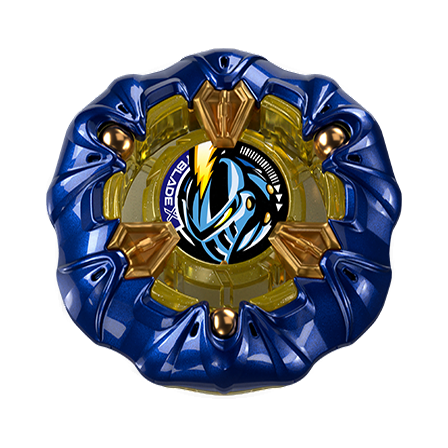
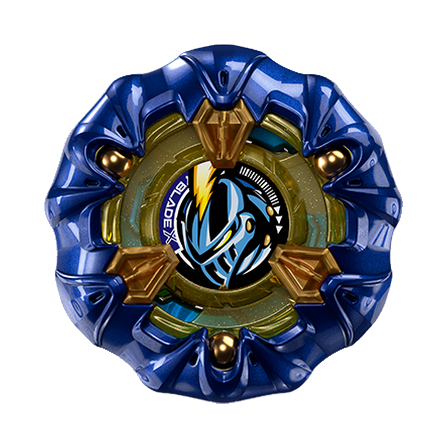
fix: update Knight Mail front image

diff --git a/index.html b/index.html
@@ -484,14 +484,14 @@
         "#app/services": "./src/app-services.js?v=20260714-scroll-affordance-overlay",
         "#app/markup-core": "./src/markup-core.js?v=20260714-scroll-affordance-overlay",
         "#app/anime-core": "./src/anime-core.js?v=20260720-burst-airdate-notes",
-        "#app/data-store": "./src/data-store.js?v=20260807-x-rock-leone-tricera-fronts",
+        "#app/data-store": "./src/data-store.js?v=20260807-x-knight-mail-front",
         "#app/search-data-decoder": "./src/search-data-decoder.js?v=20260720-burst-airdate-notes",
         "#app/ui-core": "./src/ui-core.js?v=20260731-mobile-highlight-fix",
         "#app/release-core": "./src/release-core.js?v=20260731-mobile-highlight-fix",
         "#app/scroll-affordance": "./src/scroll-affordance.js?v=20260719-dropdown-shadow-mounted-label",
         "#app/search-core": "./src/search-core.js?v=20260717-dead-code-cleanup",
         "#app/search-engine": "./src/search-engine.js?v=20260731-mobile-highlight-fix",
-        "#app/catalog-model": "./src/catalog-model.js?v=20260807-x-rock-leone-tricera-fronts",
+        "#app/catalog-model": "./src/catalog-model.js?v=20260807-x-knight-mail-front",
         "#app/collection-view": "./src/collection-view.js?v=20260731-mobile-highlight-fix",
         "#app/catalog-view": "./src/catalog-view.js?v=20260717-dead-code-cleanup",
         "#app/route-parser": "./src/route-parser.js?v=20260714-scroll-affordance-overlay",
@@ -500,7 +500,7 @@
         "#app/search-controller": "./src/search-controller.js?v=20260714-scroll-affordance-overlay",
         "#app/search-help-controller": "./src/search-help-controller.js?v=20260717-dead-code-cleanup",
         "#app/detail-view": "./src/detail-view.js?v=20260803-modal-tag-wheel-edge",
-        "#app/image-preview": "./src/image-preview.js?v=20260807-x-rock-leone-tricera-fronts",
+        "#app/image-preview": "./src/image-preview.js?v=20260807-x-knight-mail-front",
         "#app/modal-context": "./src/modal-context.js?v=20260714-scroll-affordance-overlay",
         "#app/style-loader": "./src/style-loader.js?v=20260804-mobile-modal-scrollbar-centering",
         "#app/feature-loaders": "./src/feature-loaders.js?v=20260717-dead-code-cleanup",

diff --git a/src/data-store.js b/src/data-store.js
@@ -8,7 +8,7 @@ const bookItems = [];
 const gameItems = [];
 const animeInfo = { title: "", overview: [], characters: [], episodes: [] };
 const searchIndexItems = [];
-const X_ASSET_CACHE_VERSION = "20260807-x-rock-leone-tricera-fronts";
+const X_ASSET_CACHE_VERSION = "20260807-x-knight-mail-front";
 
 const versionAssetUrl = source => {
   const value = String(source || "");

diff --git a/scripts/normalize-x-bey-front-images.py b/scripts/normalize-x-bey-front-images.py
@@ -16,7 +16,7 @@ from PIL import Image
 
 CONFIG_PATH = Path("data/source/x-bey-primary-images.json")
 ANGLE_CONFIG_PATH = Path("data/source/x-bey-angle-corrections.json")
-CONFIG_VERSION = "20260807-x-rock-leone-tricera-fronts"
+CONFIG_VERSION = "20260807-x-knight-mail-front"
 CANVAS_SIZE = 448
 TARGET_FOREGROUND_SIZE = 360
 ALPHA_THRESHOLD = 3
@@ -152,8 +152,8 @@ def main() -> int:
     validate_policy(config)
 
     entries = config_entries(config)
-    if len(entries) != 199:
-        raise ValueError(f"expected 199 front-view Beys, found {len(entries)}")
+    if len(entries) != 200:
+        raise ValueError(f"expected 200 front-view Beys, found {len(entries)}")
     ids = [entry["id"] for entry in entries]
     paths = [entry["image"] for entry in entries]
     if len(set(ids)) != len(ids) or len(set(paths)) != len(paths):

diff --git a/scripts/build-x-bey-angle-corrections.py b/scripts/build-x-bey-angle-corrections.py
@@ -88,6 +88,7 @@ SUPPLIED_FRONT_IDS = {
     "BEY-X-BX-00-ROCK-LEONE-6-80GN",
     "BEY-X-BX-00-STORM-PEGASIS-3-70RA",
     "BEY-X-BX-00-VICTORY-VALKYRIE-2-60RA",
+    "BEY-X-UX-00-KNIGHT-MAIL-3-85BS",
     "BEY-X-BX-39-01-SHELTER-DRAKE-7-80GP",
     "BEY-X-BX-39-02-SHELTER-DRAKE-5-70O",
     "BEY-X-BX-39-03-SHELTER-DRAKE-3-60D",
@@ -112,7 +113,7 @@ SUPPLIED_FRONT_IDS = {
     "BEY-X-UX-19-BULLET-GRIFFON-H",
     "BEY-X-UX-20-GLORY-VALKYRIE-LF",
 }
-CONFIG_VERSION = "20260807-x-rock-leone-tricera-fronts"
+CONFIG_VERSION = "20260807-x-knight-mail-front"
 
 
 def parse_args() -> argparse.Namespace:

diff --git a/scripts/record-x-image-alpha-review.py b/scripts/record-x-image-alpha-review.py
@@ -14,7 +14,7 @@ from PIL import Image
 CANVAS_SIZE = 448
 MIN_MARGIN = 6
 MAX_FOREGROUND_SIZE = CANVAS_SIZE - MIN_MARGIN * 2
-REVIEW_VERSION = "20260807-x-rock-leone-tricera-fronts"
+REVIEW_VERSION = "20260807-x-knight-mail-front"
 
 
 def parse_args() -> argparse.Namespace:
